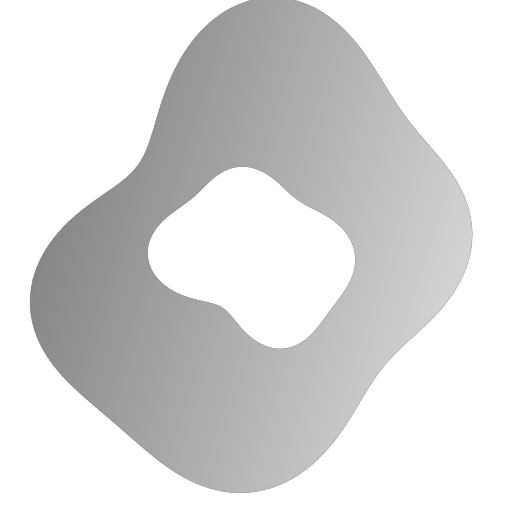
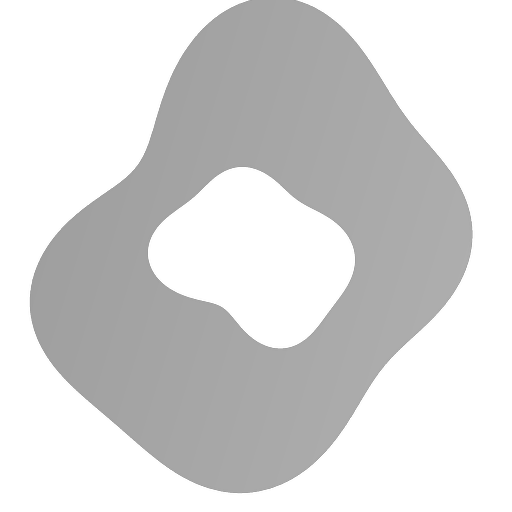
El halo deja de ser negro: grises en la banda .30-.70, y formas planas
- ninguna parada del degradado es ya negra. Todas son grises dentro de la
  banda .30-.70 en la escala 0=blanco 1=negro, o sea entre rgb(179) y rgb(77).
  El gris aclara hacia fuera a la vez que baja el alfa, asi que la nube se
  apaga sin llegar a tinta en ningun punto: se lee como niebla y no como una
  mancha. Cada parada lleva su valor apuntado al lado
- mismo tratamiento en el halo de los stickers, mas cerrado pero misma banda
- los blobs pierden casi todo el degradado interno: pasan de rampas de ~100
  niveles a ~20, lo justo para que no parezcan recortes de papel, y se quedan
  tambien dentro de la banda, por su mitad clara (cada sticker se pinta dentro
  de su propia sombra y en oscuro se perdia)

La banda vale para cada halo por separado: donde se solapan dos o tres nubes
el resultado si baja de .30, porque son capas translucidas apiladas. --halo
sigue siendo el sitio para aclararlo todo de golpe.

Changed region(s): [[0.5938, 0.25, 0.9375, 0.9062]]

diff --git a/css/style.css b/css/style.css
@@ -116,14 +116,18 @@ body.open .stage{z-index:25}
      proyectos apuntando al vacio y las sombras se robarian los clicks */
   pointer-events:none;
   opacity:var(--halo);
+  /* Nunca a negro: todas las paradas son grises dentro de la banda .30–.70
+     (0 = blanco, 1 = negro). El gris va aclarando hacia fuera a la vez que
+     baja el alfa, asi que la nube se apaga sin llegar a tinta en ningun punto.
+     Al lado de cada parada, su gris en esa escala. */
   background:radial-gradient(50% 50% at 50% 50%,
-    rgba(17,17,17,.60) 0%,
-    rgba(17,17,17,.55) 36%,
-    rgba(17,17,17,.44) 52%,
-    rgba(17,17,17,.30) 66%,
-    rgba(17,17,17,.16) 79%,
-    rgba(17,17,17,.055) 90%,
-    rgba(17,17,17,0) 100%);
+    rgba(77,77,77,1)      0%,    /* .70 */
+    rgba(89,89,89,.95)    36%,   /* .65 */
+    rgba(107,107,107,.82) 52%,   /* .58 */
+    rgba(128,128,128,.62) 66%,   /* .50 */
+    rgba(153,153,153,.38) 79%,   /* .40 */
+    rgba(173,173,173,.16) 90%,   /* .32 */
+    rgba(179,179,179,0)   100%); /* .30 */
 }
 
 /* ---------- stickers ----------
@@ -133,14 +137,15 @@ body.open .stage{z-index:25}
 .sticker::before{
   inset:-105% -105%;
   --halo:1;
+  /* misma banda .30–.70 que las cartas, pero mas cerrada */
   background:radial-gradient(50% 50% at 50% 50%,
-    rgba(17,17,17,.80) 0%,
-    rgba(17,17,17,.74) 34%,
-    rgba(17,17,17,.56) 50%,
-    rgba(17,17,17,.36) 64%,
-    rgba(17,17,17,.18) 78%,
-    rgba(17,17,17,.06) 90%,
-    rgba(17,17,17,0) 100%);
+    rgba(77,77,77,1)      0%,    /* .70 */
+    rgba(84,84,84,.97)    34%,   /* .67 */
+    rgba(99,99,99,.88)    50%,   /* .61 */
+    rgba(120,120,120,.70) 64%,   /* .53 */
+    rgba(145,145,145,.45) 78%,   /* .43 */
+    rgba(168,168,168,.19) 90%,   /* .34 */
+    rgba(179,179,179,0)   100%); /* .30 */
 }
 .card img{
   position:relative; z-index:1;

diff --git a/tools/blobs.py b/tools/blobs.py
@@ -107,16 +107,19 @@ def lobes(seed):
 
 
 os.makedirs(OUT, exist_ok=True)
-# Los tonos van claros a proposito: cada sticker se pinta dentro de su propia
-# sombra, que es muy oscura, asi que una forma oscura se perderia dentro. En
-# claro se lee como algo que flota en el hueco.
+# Los rellenos son casi planos —una rampa de unos 20 niveles, lo justo para que
+# no parezcan recortes de papel— y viven en la misma banda de grises que el
+# halo, entre .30 y .70 en la escala 0=blanco 1=negro (o sea, entre 179 y 77).
+# Van por la mitad clara de la banda a proposito: cada sticker se pinta dentro
+# de su propia sombra, que es lo mas oscuro de la banda, y en oscuro se perderia.
+GREY = (77, 179)     # los dos extremos de la banda, para no salirse
 made = [
-    save("blob-01.png", blob(11, (2, 3, 5), .36, .78), 108, 205, 1.1),
-    save("blob-02.png", lobes(24), 86, 182, 2.4),
-    save("blob-03.png", ring(37), 126, 222, .3),
-    save("blob-04.png", blob(52, (3, 4, 7), .28, 1.0, .38), 146, 236, 1.9),
-    save("blob-05.png", blob(68, (2, 5), .40, 1.15, .36), 78, 190, .6),
-    save("blob-06.png", lobes(83), 132, 228, 3.0),
+    save("blob-01.png", blob(11, (2, 3, 5), .36, .78), 150, 170, 1.1),
+    save("blob-02.png", lobes(24), 132, 152, 2.4),
+    save("blob-03.png", ring(37), 158, 176, .3),
+    save("blob-04.png", blob(52, (3, 4, 7), .28, 1.0, .38), 164, 179, 1.9),
+    save("blob-05.png", blob(68, (2, 5), .40, 1.15, .36), 122, 142, .6),
+    save("blob-06.png", lobes(83), 155, 174, 3.0),
 ]
 for p in made:
     print(os.path.basename(p), os.path.getsize(p), "bytes")

diff --git a/README.md b/README.md
@@ -53,7 +53,10 @@ según su `iso`, para que entre proyecto y proyecto haya algo que mirar.
 - `scale` — tamaño respecto a una carta de proyecto.
 
 Añadir, quitar o mover stickers es sólo tocar este array. Los PNG actuales son **provisionales**:
-formas abstractas en escala de grises con transparencia, generadas con
+formas abstractas de relleno casi plano (una rampa de unos 20 niveles, lo justo para que no
+parezcan recortes de papel), en la misma banda de grises .30–.70 que el halo y por su mitad
+clara, porque cada sticker se pinta dentro de su propia sombra y en oscuro se perdería. Se
+generan con
 
 ```bash
 python3 tools/blobs.py
@@ -92,8 +95,12 @@ Los parámetros, todos en `.card::before` salvo el primero:
 | **fuerza** | `--halo` en `:root` | `1` | multiplica toda la sombra. `0` la quita, `1` es todo lo que da el degradado. **Es la perilla del día a día**: `.5` deja el ambiente a la mitad sin tocar nada más. Para pasar de `1` hay que subir los alfas del degradado. |
 | **tamaño** | `inset:-130% -85%` | | cuánto desborda la carta: `-130%` arriba y abajo (unas 3,6 veces el alto de la foto), `-85%` a los lados. Más negativo = mancha más grande y difusa. Si lo subes hacia `0` la sombra se pega al borde y parece un collar sucio en vez de un hueco. |
 | **forma** | `border-radius:50%` | | la hace elipse. Quitándolo sale un rectángulo con las esquinas duras. |
-| **caída** | las paradas del `radial-gradient` | `.60 → 0` | siete paradas de negro con alfa decreciente. Las primeras quedan **tapadas por la foto** (con este `inset`, el borde de la imagen cae sobre el 28% del radio en vertical y el 37% en horizontal), así que las que se ven de verdad son de ahí para fuera. Ahí es donde se ajusta si la quieres más cerrada o más abierta. |
-| **color** | `rgba(17,17,17,…)` | | el mismo negro que `--ink`. Con un color se tiñe el fondo en vez de oscurecerlo. |
+| **caída** | las paradas del `radial-gradient` | `.70 → .30` | siete paradas. Las primeras quedan **tapadas por la foto** (con este `inset`, el borde de la imagen cae sobre el 28% del radio en vertical y el 37% en horizontal), así que las que se ven de verdad son de ahí para fuera. Ahí es donde se ajusta si la quieres más cerrada o más abierta. |
+| **color** | los grises del `radial-gradient` | `.70 → .30` | **nunca negro.** Todas las paradas son grises dentro de la banda .30–.70 en la escala 0 = blanco, 1 = negro (o sea, entre `rgb(179)` y `rgb(77)`). El gris va aclarando hacia fuera a la vez que baja el alfa: la nube se apaga sin llegar a tinta en ningún punto. Cada parada lleva su valor apuntado al lado en el css. |
+
+Un matiz: la banda vale para **cada** halo por separado. Donde se solapan dos o tres nubes el
+resultado sí baja de .30 en la escala, porque son capas translúcidas apiladas. Si eso molesta,
+`--halo` es otra vez el sitio: bajarlo aclara todos los solapes a la vez.
 
 Los stickers llevan su propia versión, más cerrada y más oscura, en `.sticker::before`.
 
